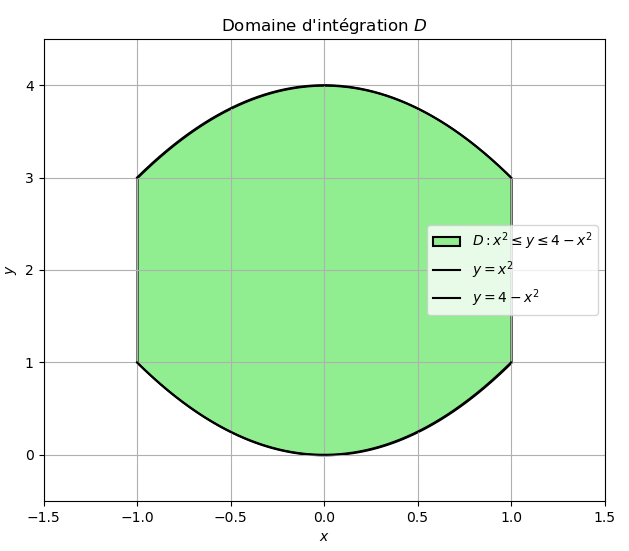
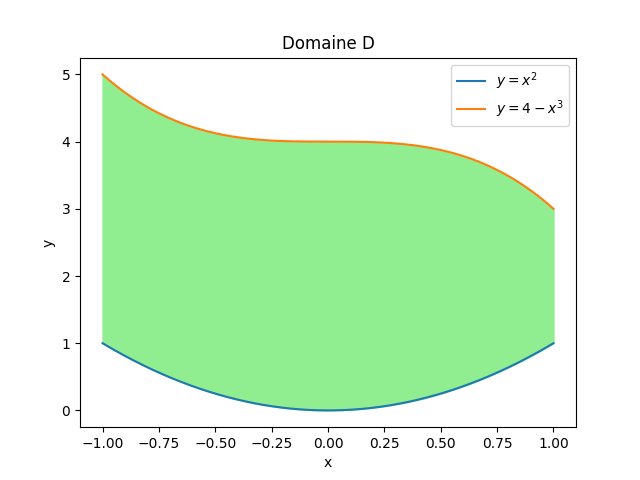
Updates from Overleaf

diff --git a/Exercises/2025/tp12_corr.tex b/Exercises/2025/tp12_corr.tex
@@ -208,7 +208,7 @@
     Tout d'abord, voici le domaine : \\
     \begin{minipage}{0.5\textwidth}
         \centering
-        \includegraphics[width=0.8\linewidth]{2025/2025_pic/exo4.png}
+        \includegraphics[width=0.9\linewidth]{2025/2025_pic/exo4.png}
     \end{minipage}%
     \begin{minipage}{0.5\textwidth}
         \[
